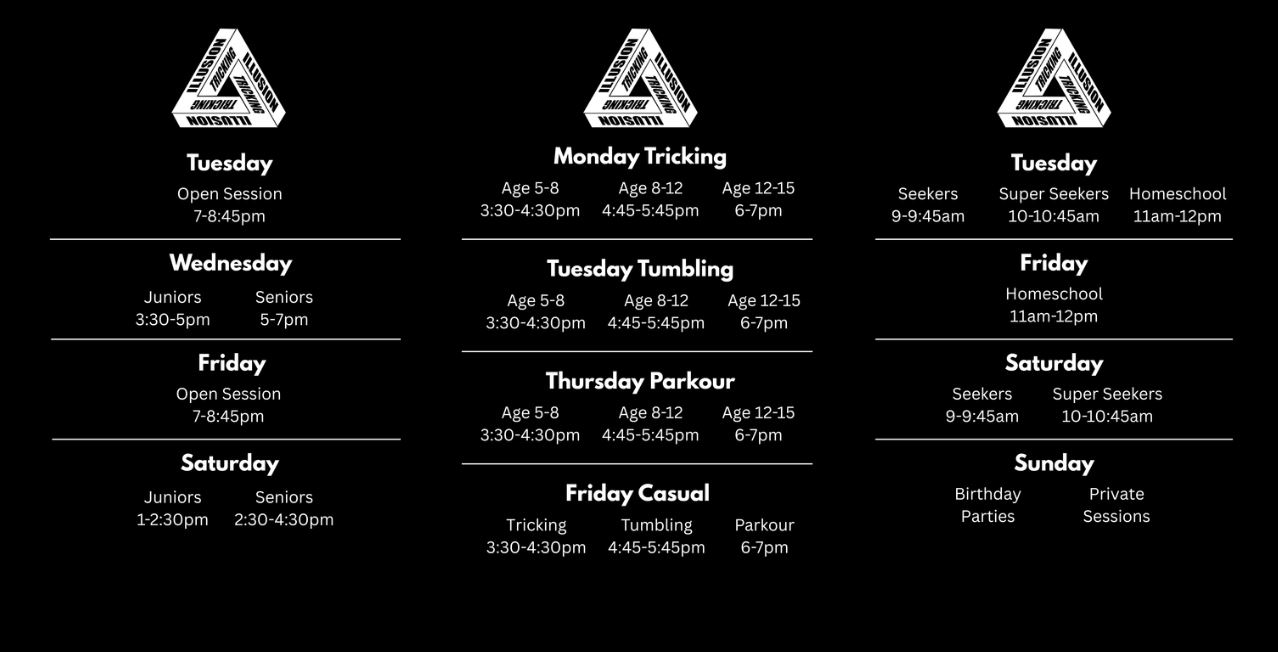
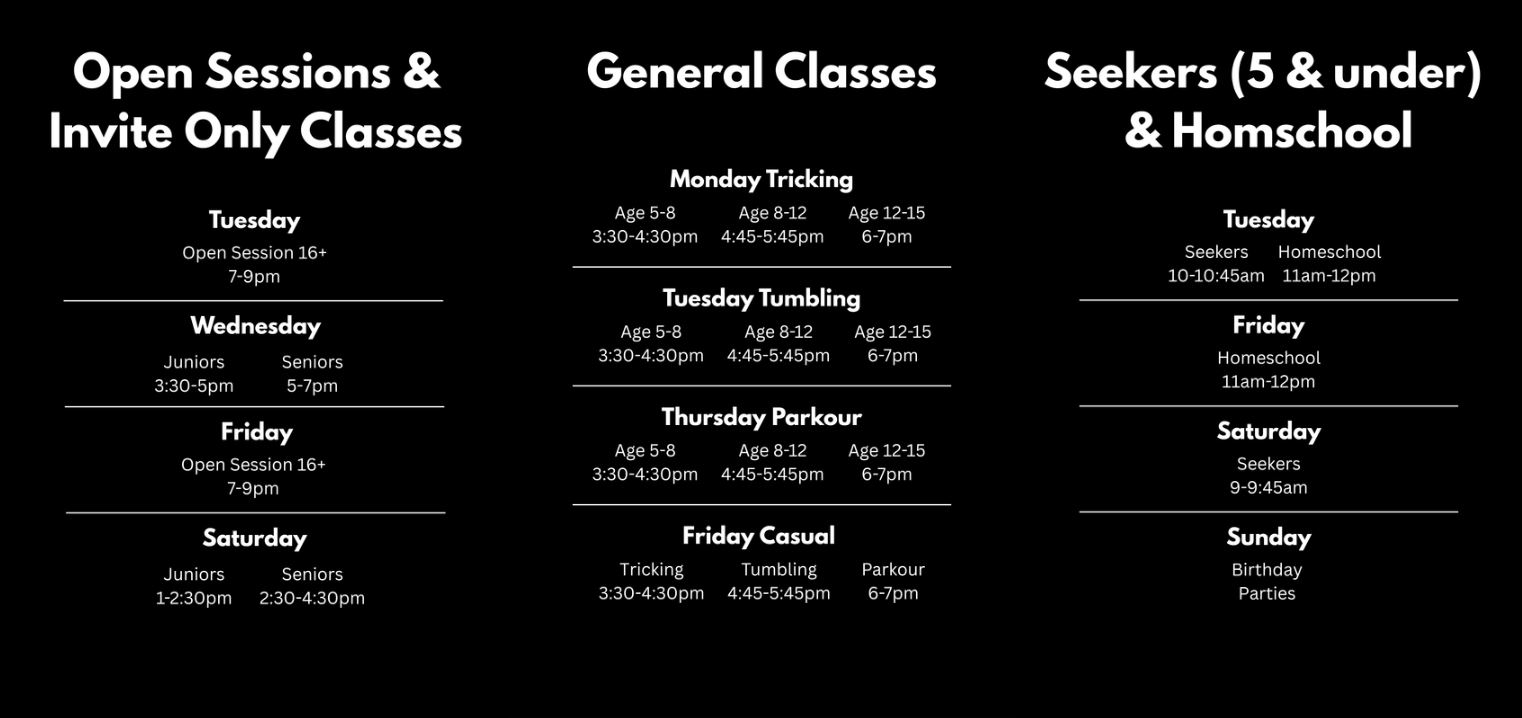
2026 update

diff --git a/pages/index.js b/pages/index.js
@@ -14,11 +14,11 @@ export default function Home() {
 
       <Hero 
       heading='About Us' 
-      message='Sports group based in Levin.'
-      message1='This video is an example of the skills we teach. Classes run by Aaron Van Eijck and Allegra Hunt.'
+      message='Tricking is a movement discipline that blends martial arts kicks, gymnastics flips, and dance-style flow into dynamic, acrobatic combinations.'
+      message1='Classes run by Aaron Van Eijck and Allegra Hunt.'
       message2=''
       hidden1
-      frame='https://www.youtube.com/embed/noVDCCBdfJI?si=k-5OUu9N_gHOaH20'
+      frame='https://www.youtube.com/embed/MWiv8QIgVtc?si=mo2CwY_PdQW7JB2N'
       />  
       <Instagram />
     </>

diff --git a/pages/classes.jsx b/pages/classes.jsx
@@ -9,7 +9,7 @@ const classes = () => {
         <div>
             <Hero 
             heading='Classes' 
-            message='2025 Term 4' 
+            message='2026 Term 1' 
             message1='Register below'
             message2=''
             image={timetable} w={1000}
